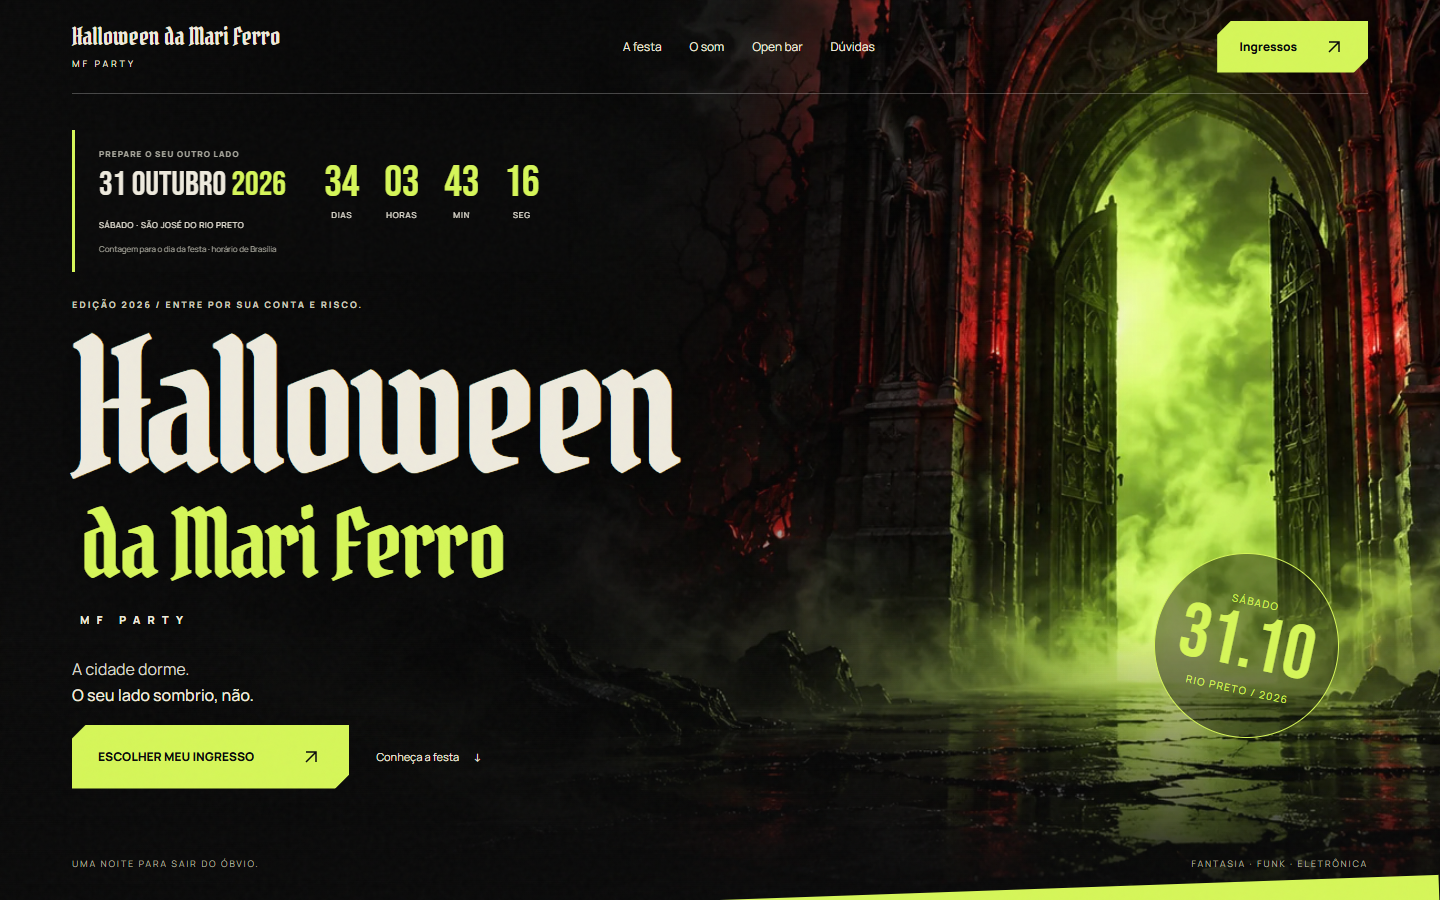
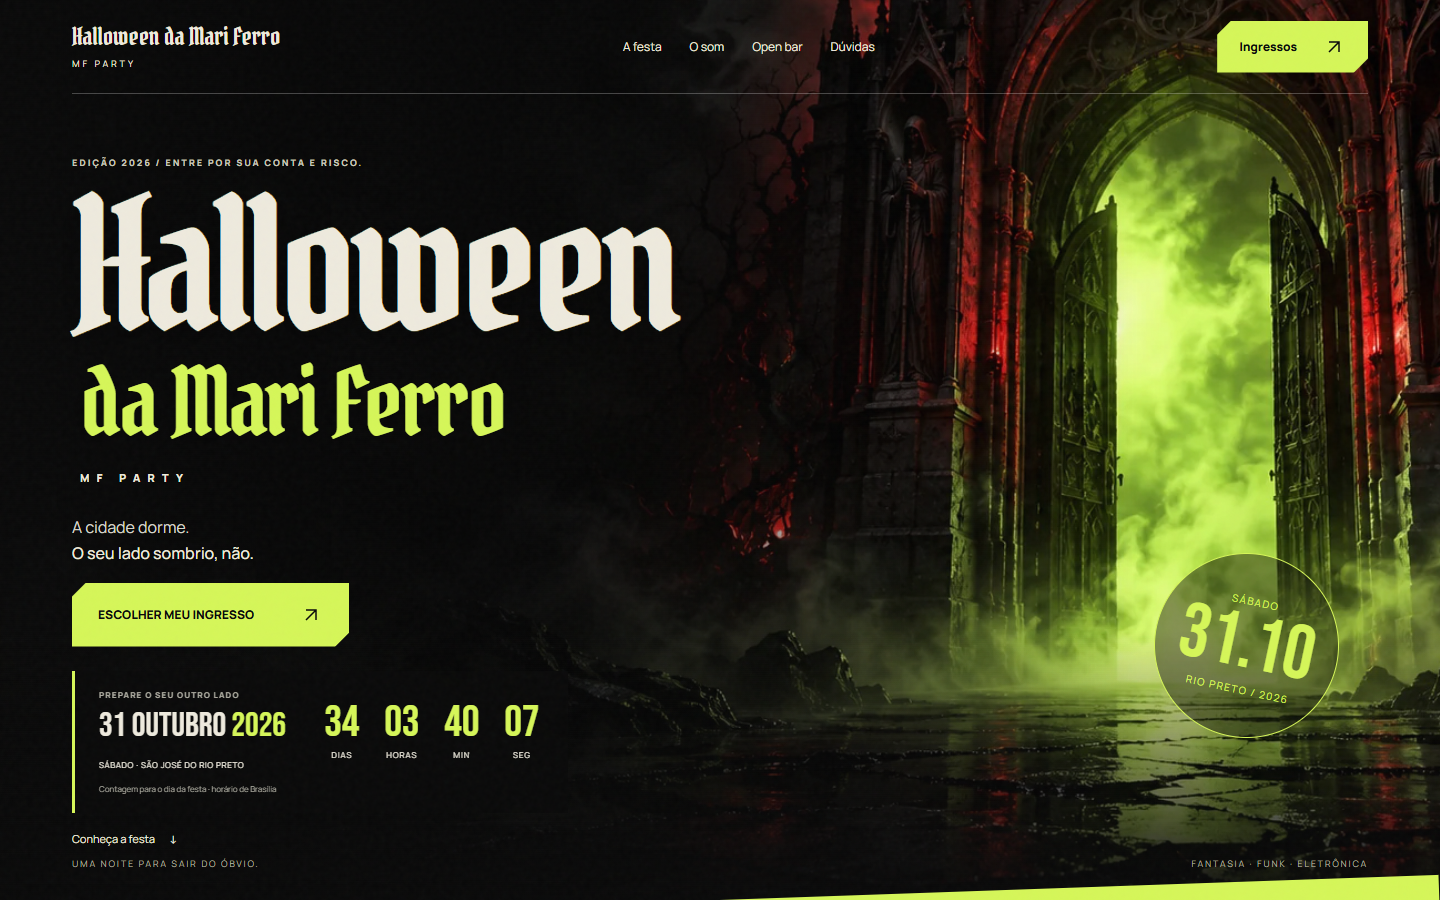
Posiciona contador abaixo do botao de ingresso

Changed region(s): [[0.0312, 0.1556, 0.4688, 0.5289], [0.0312, 0.56, 0.375, 0.9022]]

diff --git a/index.html b/index.html
@@ -37,15 +37,15 @@
 <section class="hero" id="inicio" aria-labelledby="hero-title">
  <div class="hero-art" aria-hidden="true"></div>
  <div class="hero-content wrap">
+  <p class="kicker">EDIÇÃO 2026 / ENTRE POR SUA CONTA E RISCO.</p>
+  <h1 id="hero-title">Halloween<span>da Mari Ferro</span></h1><p class="signature">MF PARTY</p>
+  <p class="hero-copy">A cidade dorme.<br><strong>O seu lado sombrio, não.</strong></p>
+  <a class="button" href="#ingressos">Escolher meu ingresso <svg viewBox="0 0 24 24" aria-hidden="true"><path d="M7 17 17 7M7 7h10v10"/></svg></a>
   <section class="hero-countdown" aria-label="Data e contagem regressiva para o dia da festa">
    <div class="countdown-date"><span>PREPARE O SEU OUTRO LADO</span><time datetime="2026-10-31">31 OUTUBRO <b>2026</b></time><small>SÁBADO · SÃO JOSÉ DO RIO PRETO</small></div>
    <div class="clock" role="timer" aria-label="Tempo restante até o dia 31 de outubro, horário de Brasília"><div><strong id="days">00</strong><span>DIAS</span></div><div><strong id="hours">00</strong><span>HORAS</span></div><div><strong id="minutes">00</strong><span>MIN</span></div><div><strong id="seconds">00</strong><span>SEG</span></div></div>
    <p id="count-note">Contagem para o dia da festa · horário de Brasília</p>
   </section>
-  <p class="kicker">EDIÇÃO 2026 / ENTRE POR SUA CONTA E RISCO.</p>
-  <h1 id="hero-title">Halloween<span>da Mari Ferro</span></h1><p class="signature">MF PARTY</p>
-  <p class="hero-copy">A cidade dorme.<br><strong>O seu lado sombrio, não.</strong></p>
-  <a class="button" href="#ingressos">Escolher meu ingresso <svg viewBox="0 0 24 24" aria-hidden="true"><path d="M7 17 17 7M7 7h10v10"/></svg></a>
   <a class="explore" href="#experiencia">Conheça a festa <span aria-hidden="true">↓</span></a>
  </div>
  <div class="date-stamp" aria-hidden="true"><span>SÁBADO</span><b>31.10</b><span>RIO PRETO / 2026</span></div>

diff --git a/css/home.css b/css/home.css
@@ -263,3 +263,6 @@ html{overflow-x:clip}
 .mobile-cta-bar{background:transparent;padding:10px 5% max(10px,env(safe-area-inset-bottom))}
 .mobile-cta-bar a{padding:17px;background:var(--acid);clip-path:polygon(12px 0,100% 0,100% calc(100% - 12px),calc(100% - 12px) 100%,0 100%,0 12px)}
 }
+
+.hero-countdown{margin-top:24px}
+.hero .explore{display:inline-block;margin:18px 0 0}
